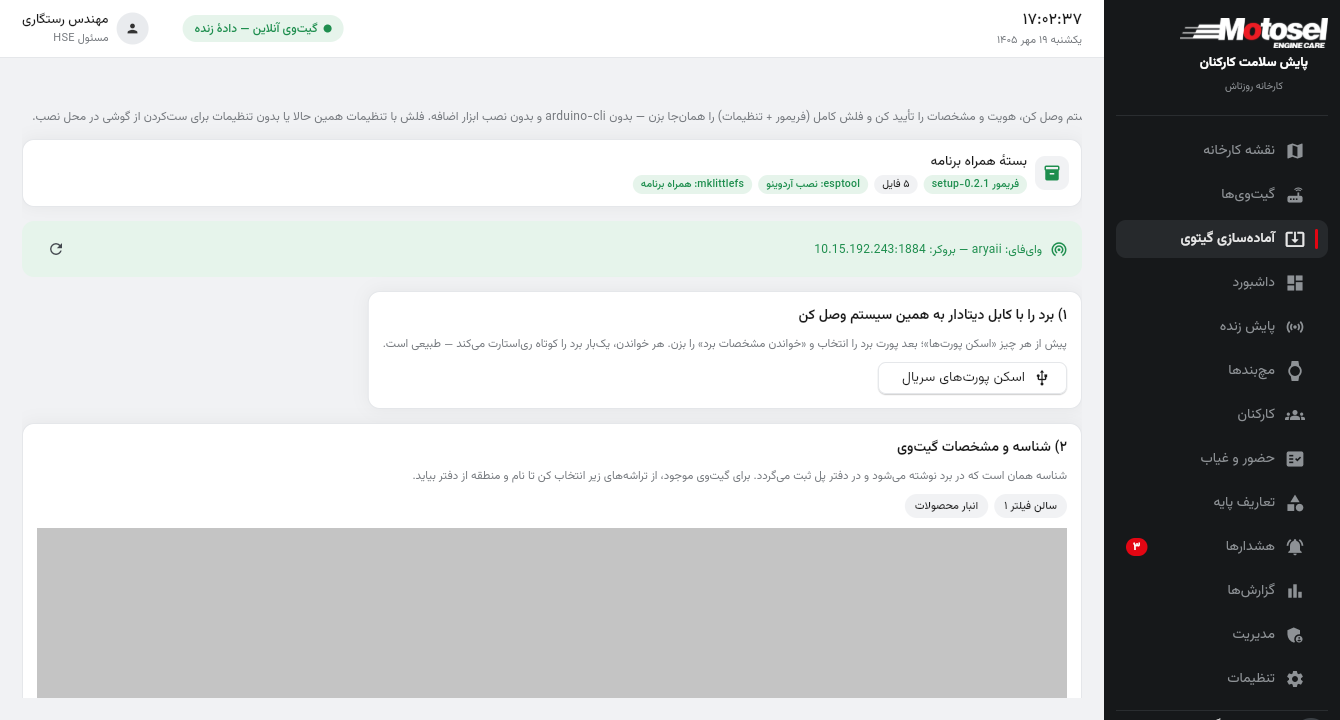
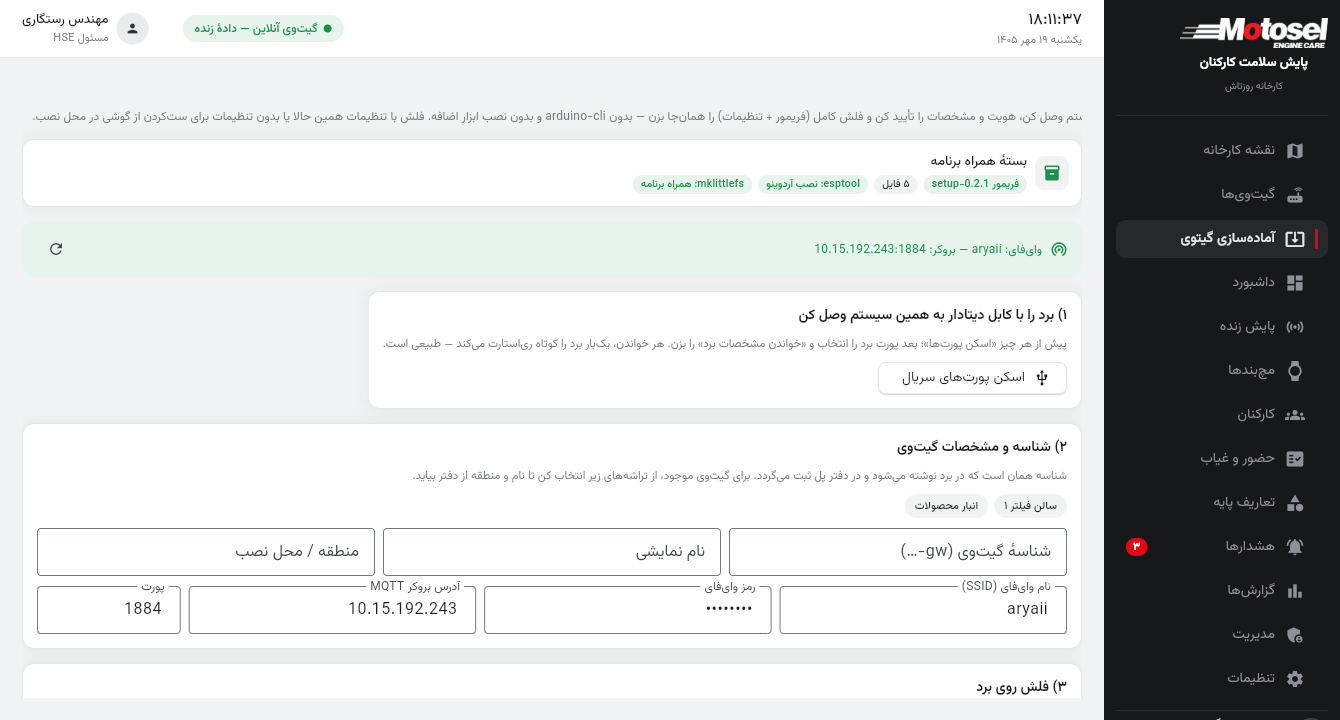
برنامه: رفع خطای چیدمان WrapParentData در صفحهٔ آمادهسازی گیتوی
- src/views/provisioning.py: ردیفهای فیلد گام ۲ از ft.Row(wrap=True) با فرزند
  expand به کمکی flow از layout منتقل شدند — دسکتاپ Row، موبایل ستون تمامعرض
  (همان الگوی رفع صفحهٔ «لاگ برنامه»)
- پیش از رفع: ۲۸ خطای WrapParentData در هر سشن + رندر نشدن فیلدها (کادر خالی)؛
  پس از رفع: صفر خطا و فیلدها سالم رندر میشوند (تأیید چشمی مقایسهای)
- تأیید: test_provisioning_ui سبز؛ smoke_ui سبز (دسکتاپ و موبایل)؛ اجرای واقعی
  برنامه با پل خاموش روی همین صفحه — صفر WrapParentData در لاگ تازه
- screenshots/live/provisioning.png بهروز شد

Changed region(s): [[0.0, 0.7333, 0.7955, 0.9778], [0.7649, 0.0, 0.7955, 0.0306]]

diff --git a/src/views/provisioning.py b/src/views/provisioning.py
@@ -26,6 +26,7 @@ from data import live_gateways, netinfo, save_gateway
 import provisioner as pv
 
 from components.common import SHADOW, card, section_header
+from layout import flow
 
 _BG_OK = "#E6F4EB"
 _BG_WARN = "#FCF0DC"
@@ -379,18 +380,21 @@ def _step2_card(app, st) -> ft.Control:
                 padding=ft.Padding.symmetric(horizontal=10, vertical=4),
                 on_click=lambda e, g=r_gw, rr=r: pick(g, rr), ink=True))
         blocks.append(ft.Row(chips, spacing=6, wrap=True))
+    # نکته: Row(wrap=True) فرزند expand=True را نمیپذیرد (خطای WrapParentData
+    # سمت Flutter)؛ ردیفهای فیلد با کمک flow ساخته میشوند — دسکتاپ Row،
+    # موبایل ستون تمامعرض (مثل صفحهٔ «لاگ برنامه»).
     blocks += [
-        ft.Row([
+        flow(app, [
             _field("شناسهٔ گیتوی (gw-…)", "gw_id", st, expand=1),
             _field("نام نمایشی", "label", st, expand=1),
             _field("منطقه / محل نصب", "zone", st, expand=1),
-        ], spacing=8, wrap=True),
-        ft.Row([
+        ], spacing=8),
+        flow(app, [
             _field("نام وایفای (SSID)", "ssid", st, expand=2),
             _field("رمز وایفای", "pass", st, expand=2, password=True),
             _field("آدرس بروکر MQTT", "host", st, expand=2),
             _field("پورت", "port", st, expand=1),
-        ], spacing=8, wrap=True),
+        ], spacing=8),
     ]
     return card(ft.Column(blocks, spacing=10), pad=14)
 
